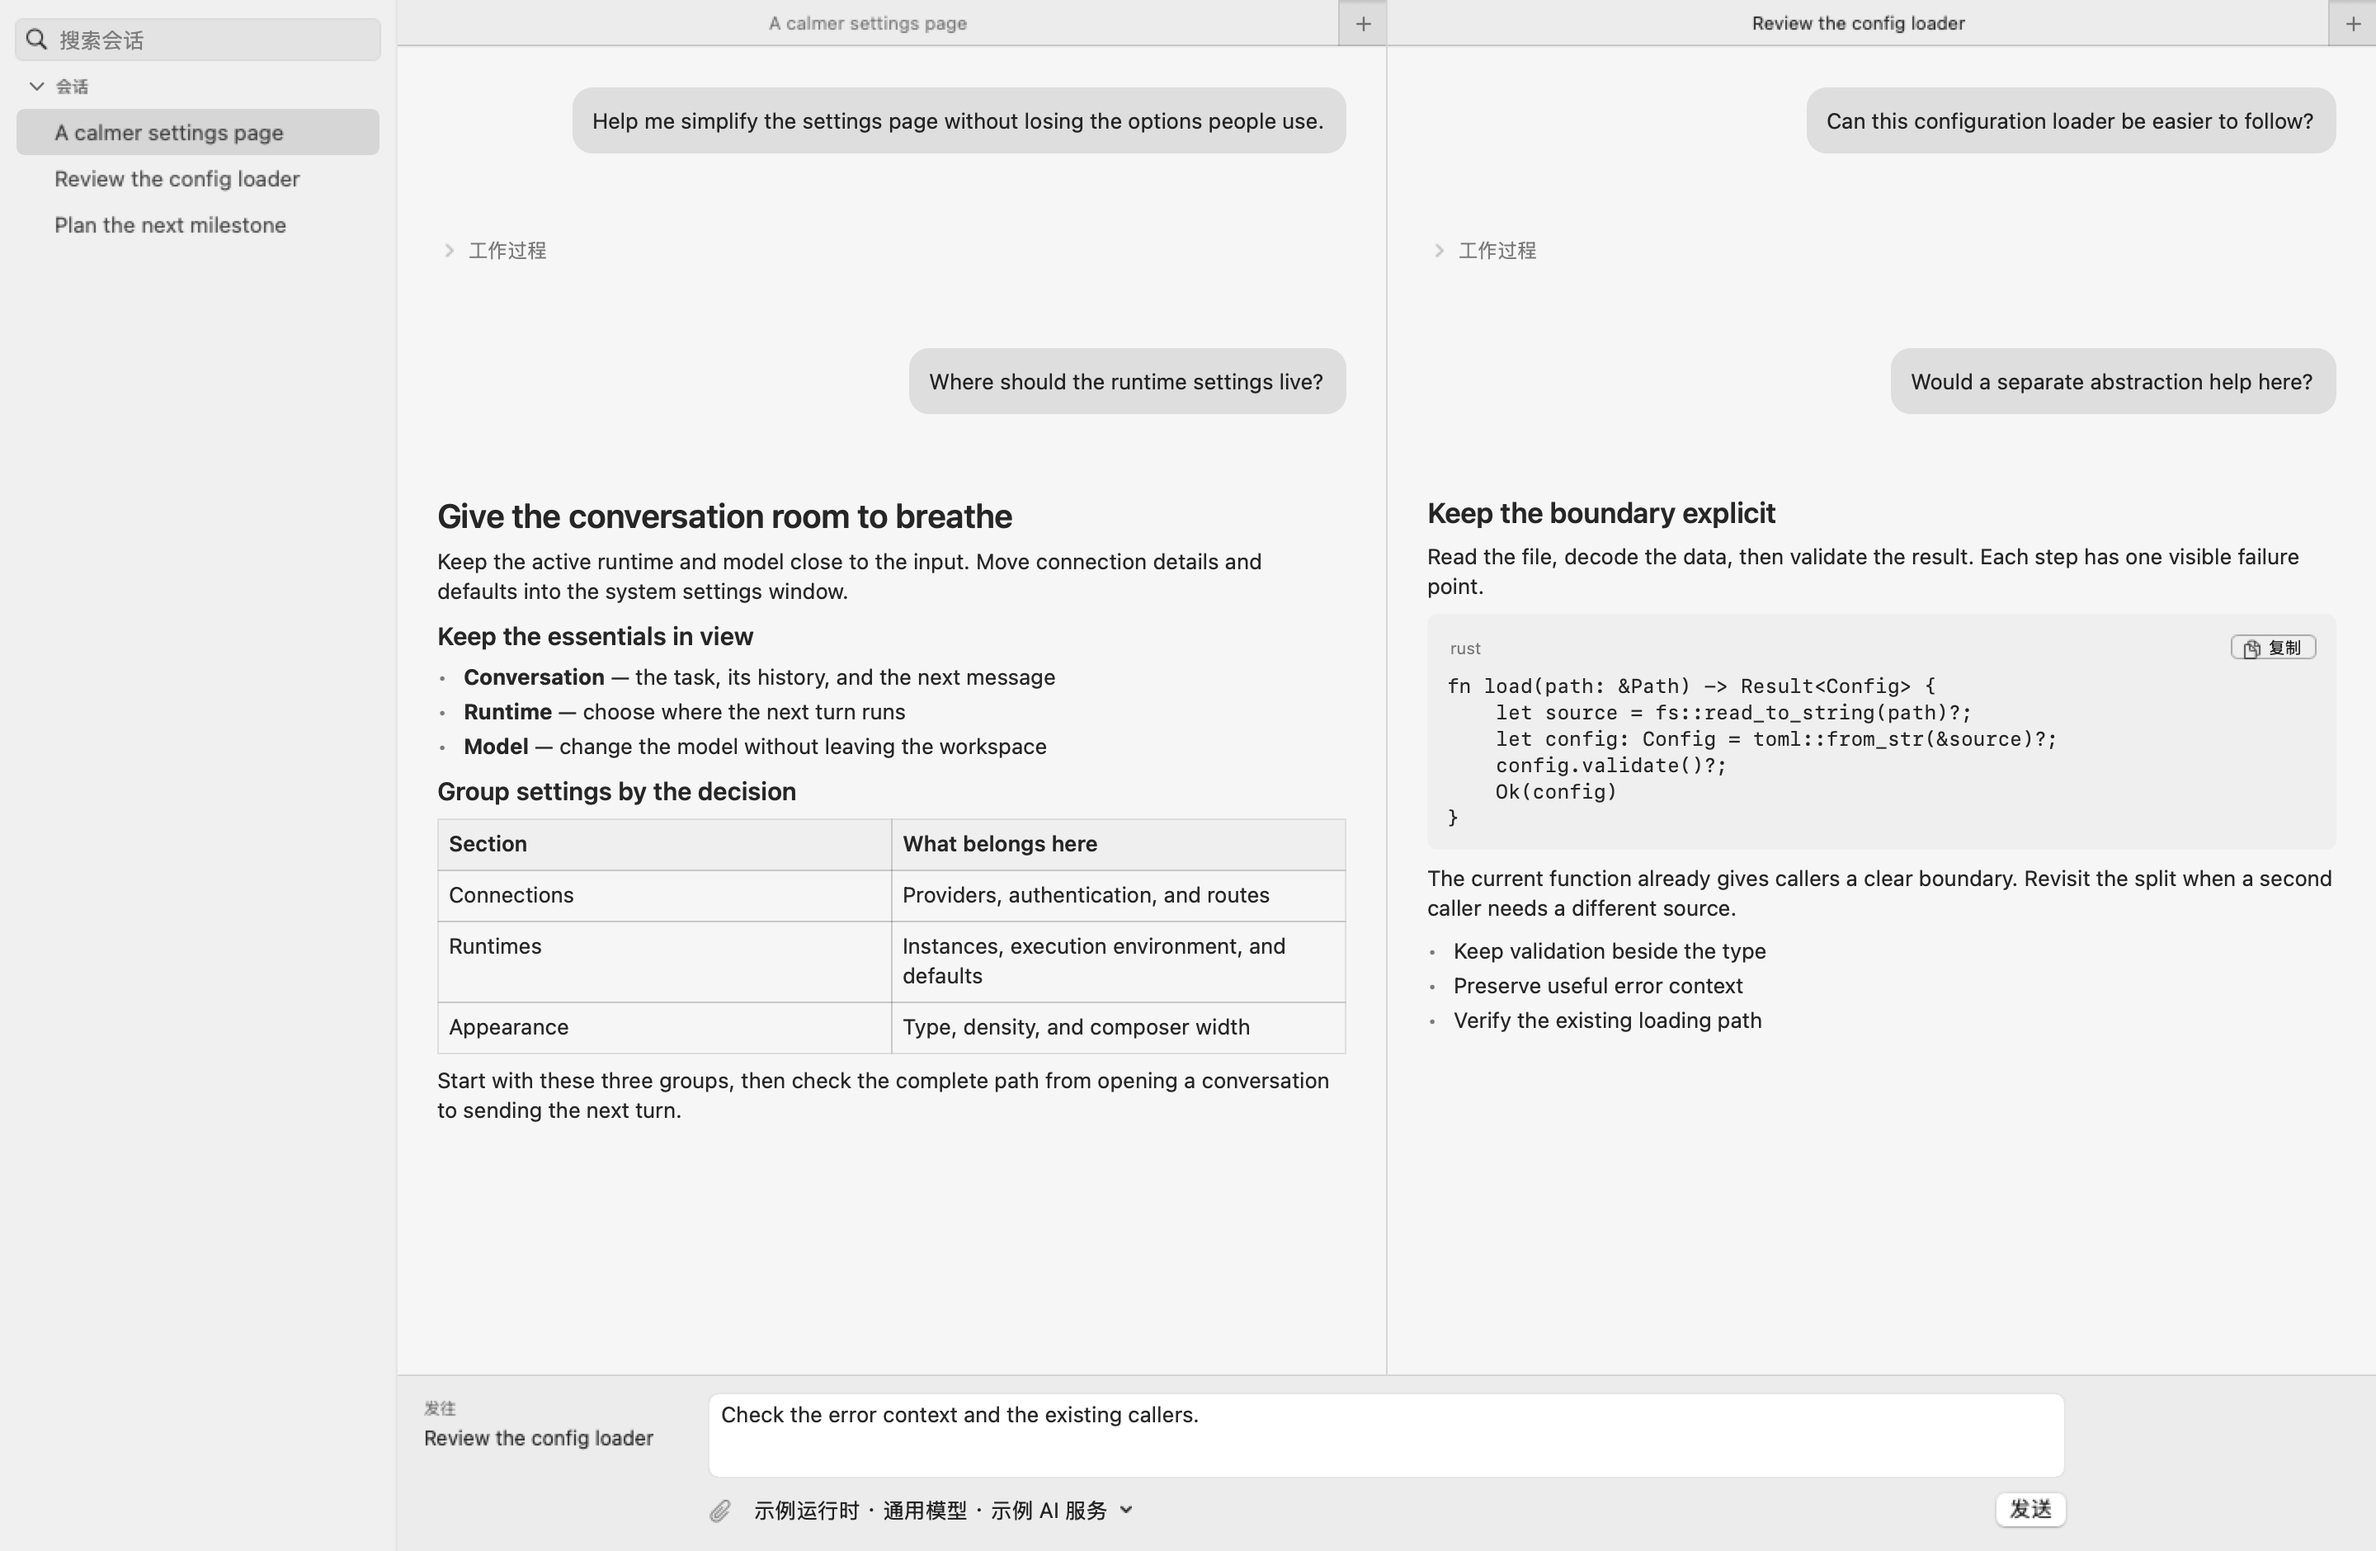
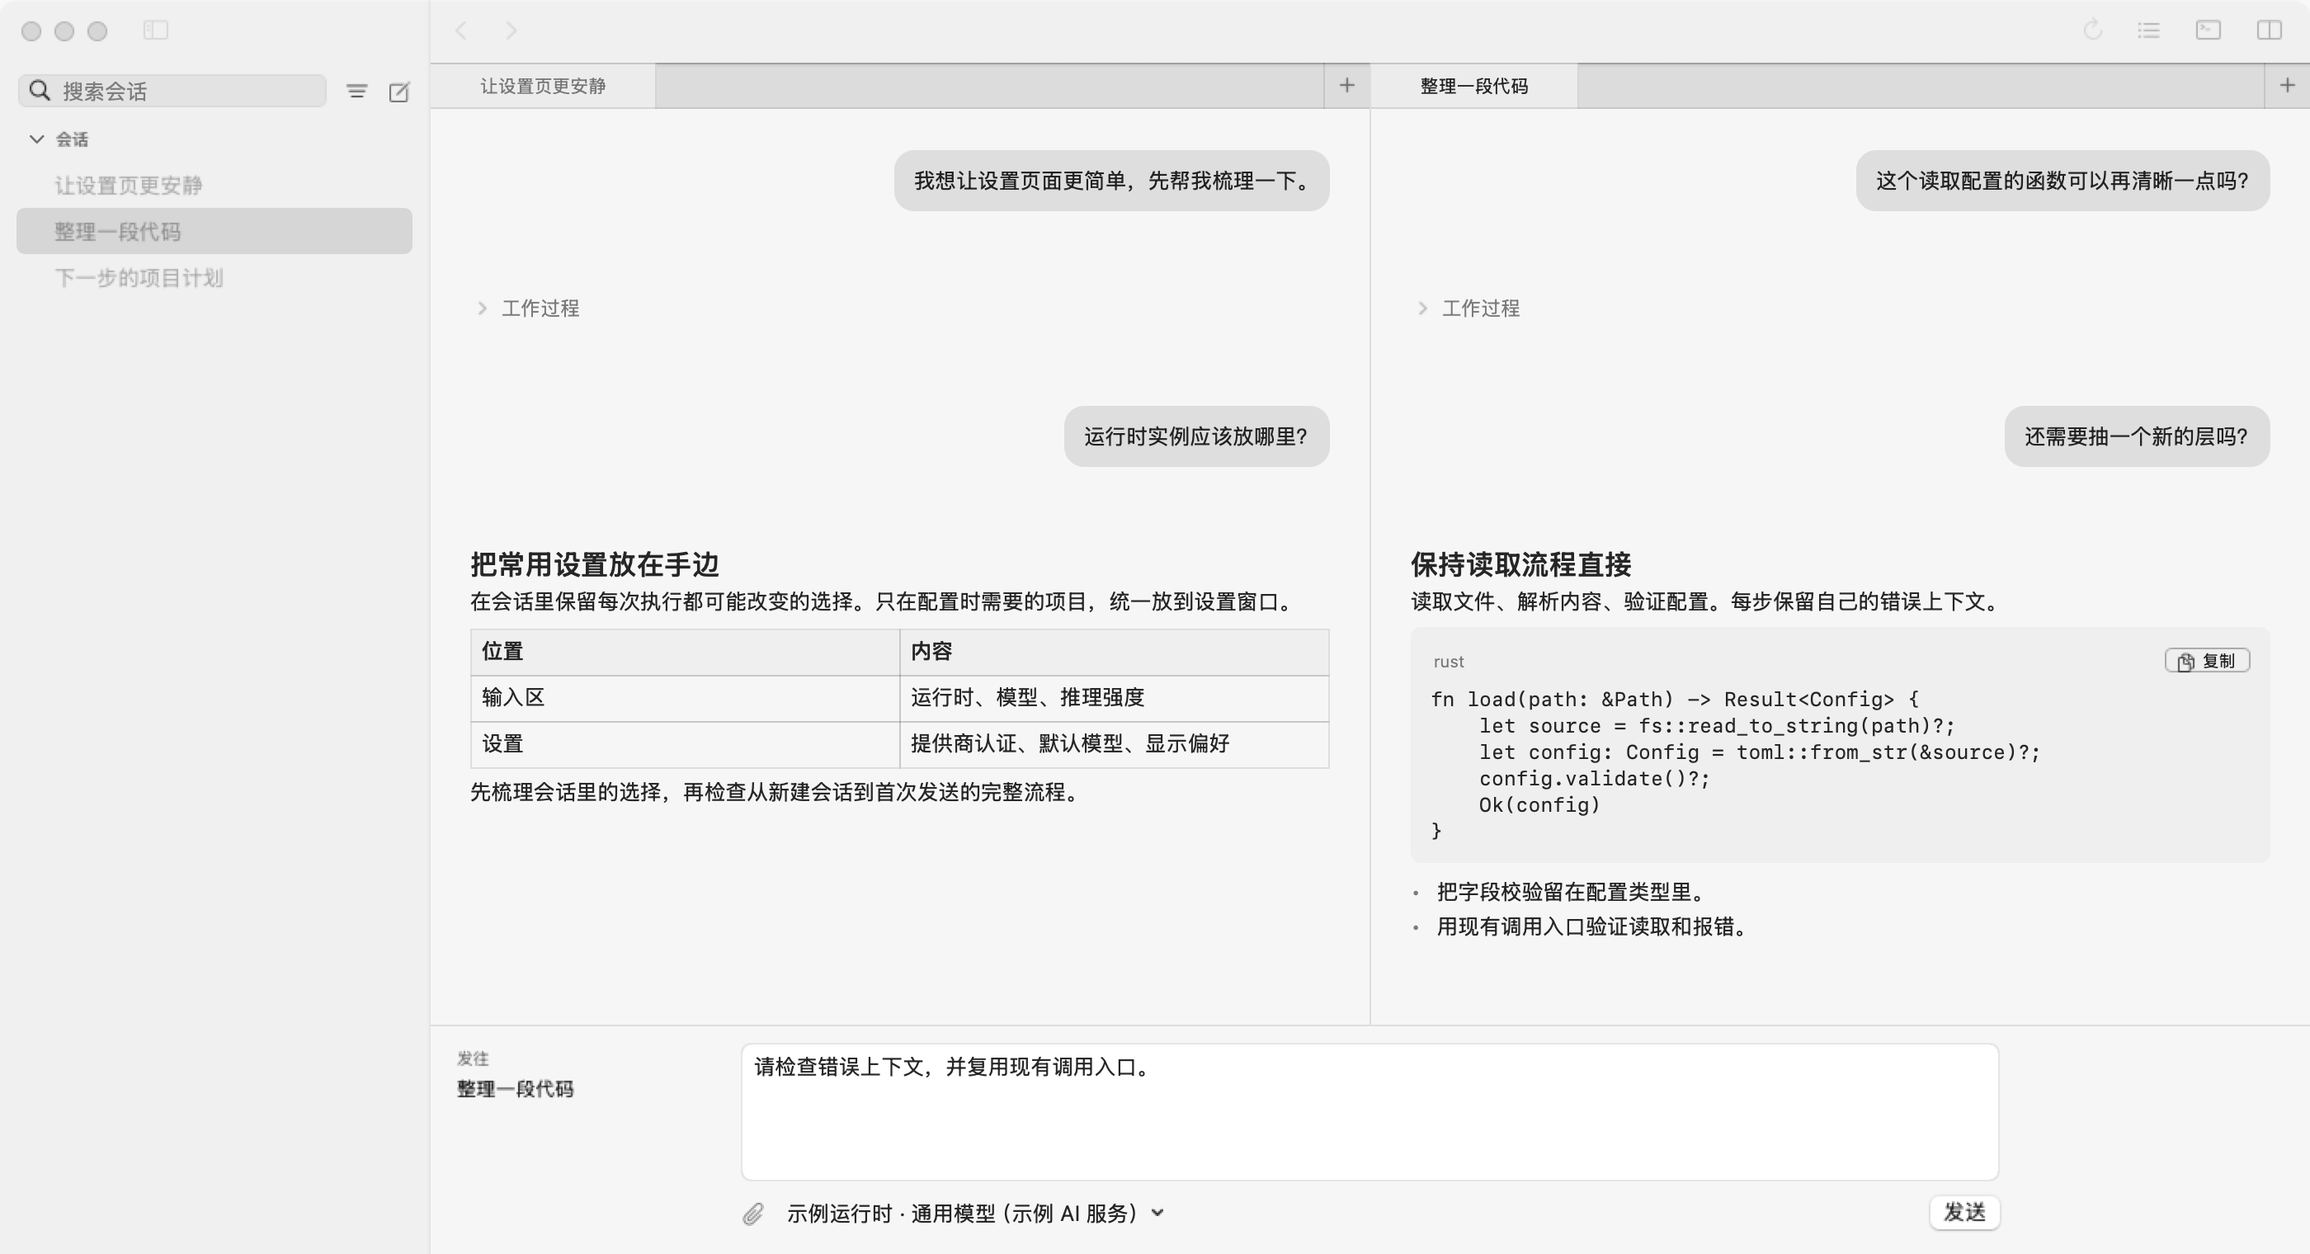
docs(readme): 更新 Mac 工作区截图
- 用当前 AppKit 外壳重拍单会话和双会话分屏，展示紧凑工具栏、列表控件和共享输入区
- 用离屏开发构建和合成会话生成图片，逐张核对画面并验证中英文 README 引用

diff --git a/README.md b/README.md
@@ -24,7 +24,7 @@ Your installed harnesses execute tools and own their native histories. Velune pr
 
 ![Velune on macOS with two conversations and a shared composer](assets/screenshots/macos-split-workspace.png)
 
-*Earlier macOS workspace with synthetic conversations. The interface is primarily in Chinese.*
+*Velune’s macOS workspace with sample conversations. The interface is primarily in Chinese.*
 
 <details>
 <summary>Single-session view</summary>
